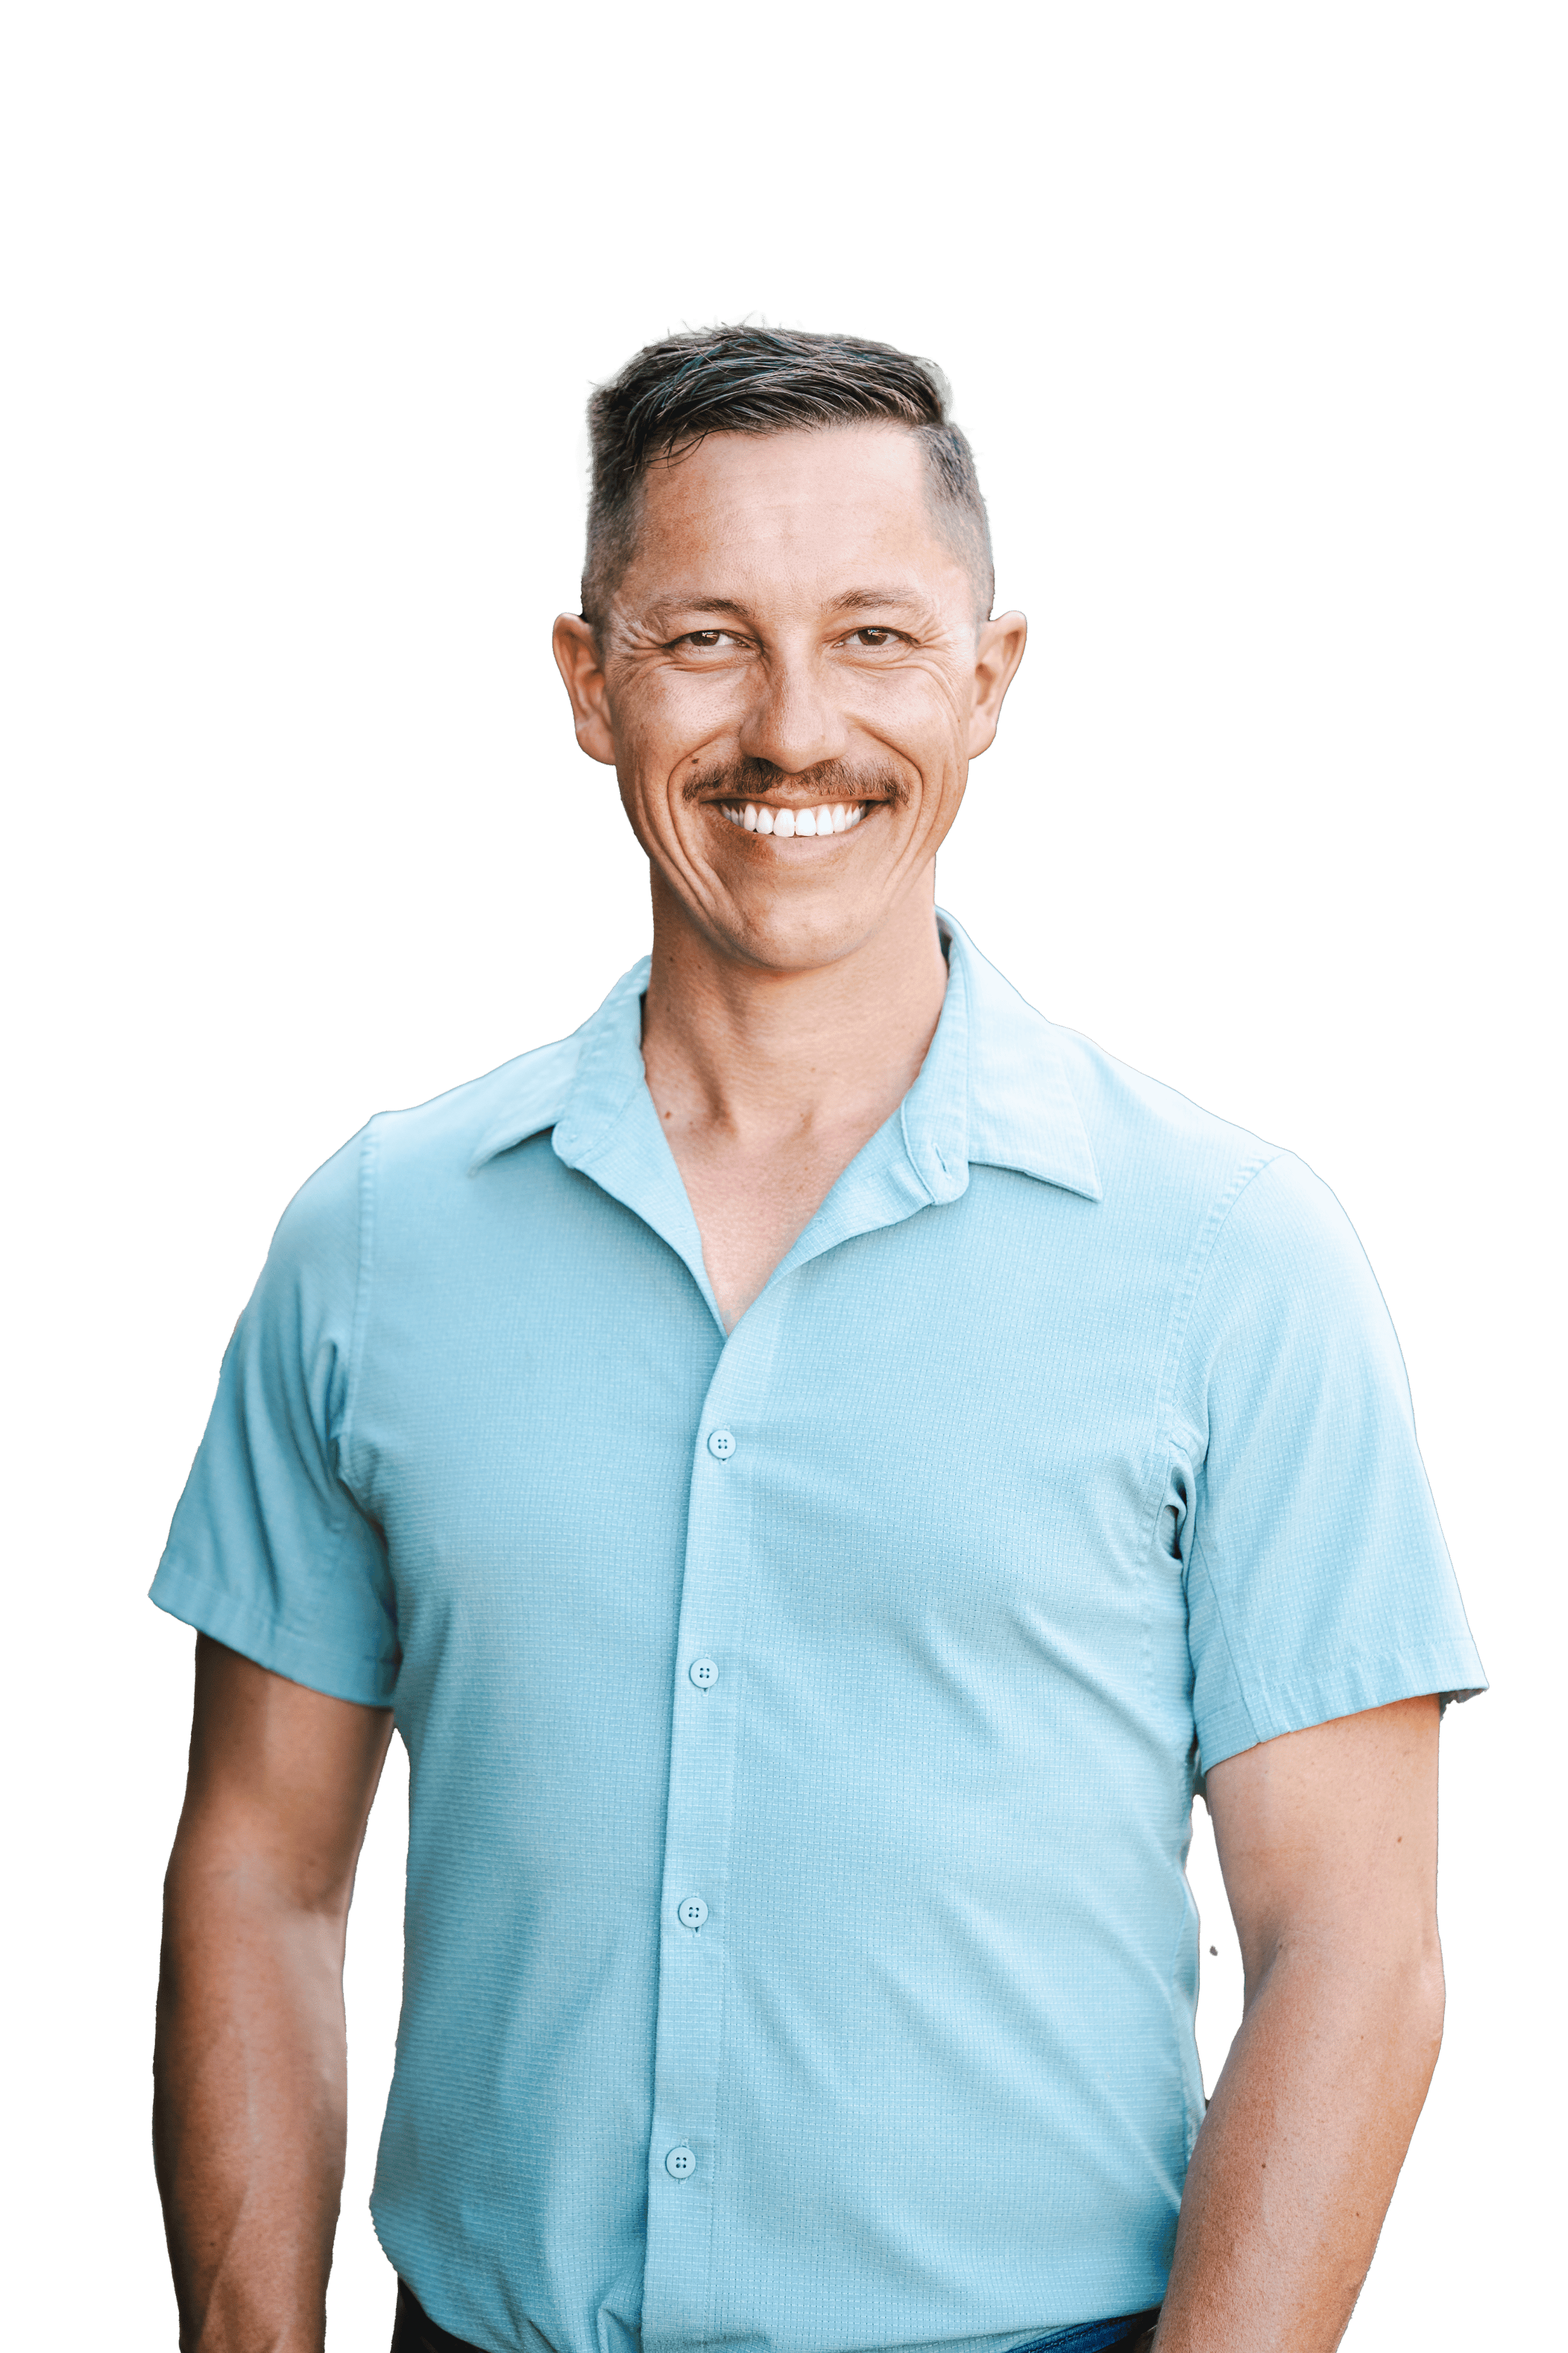
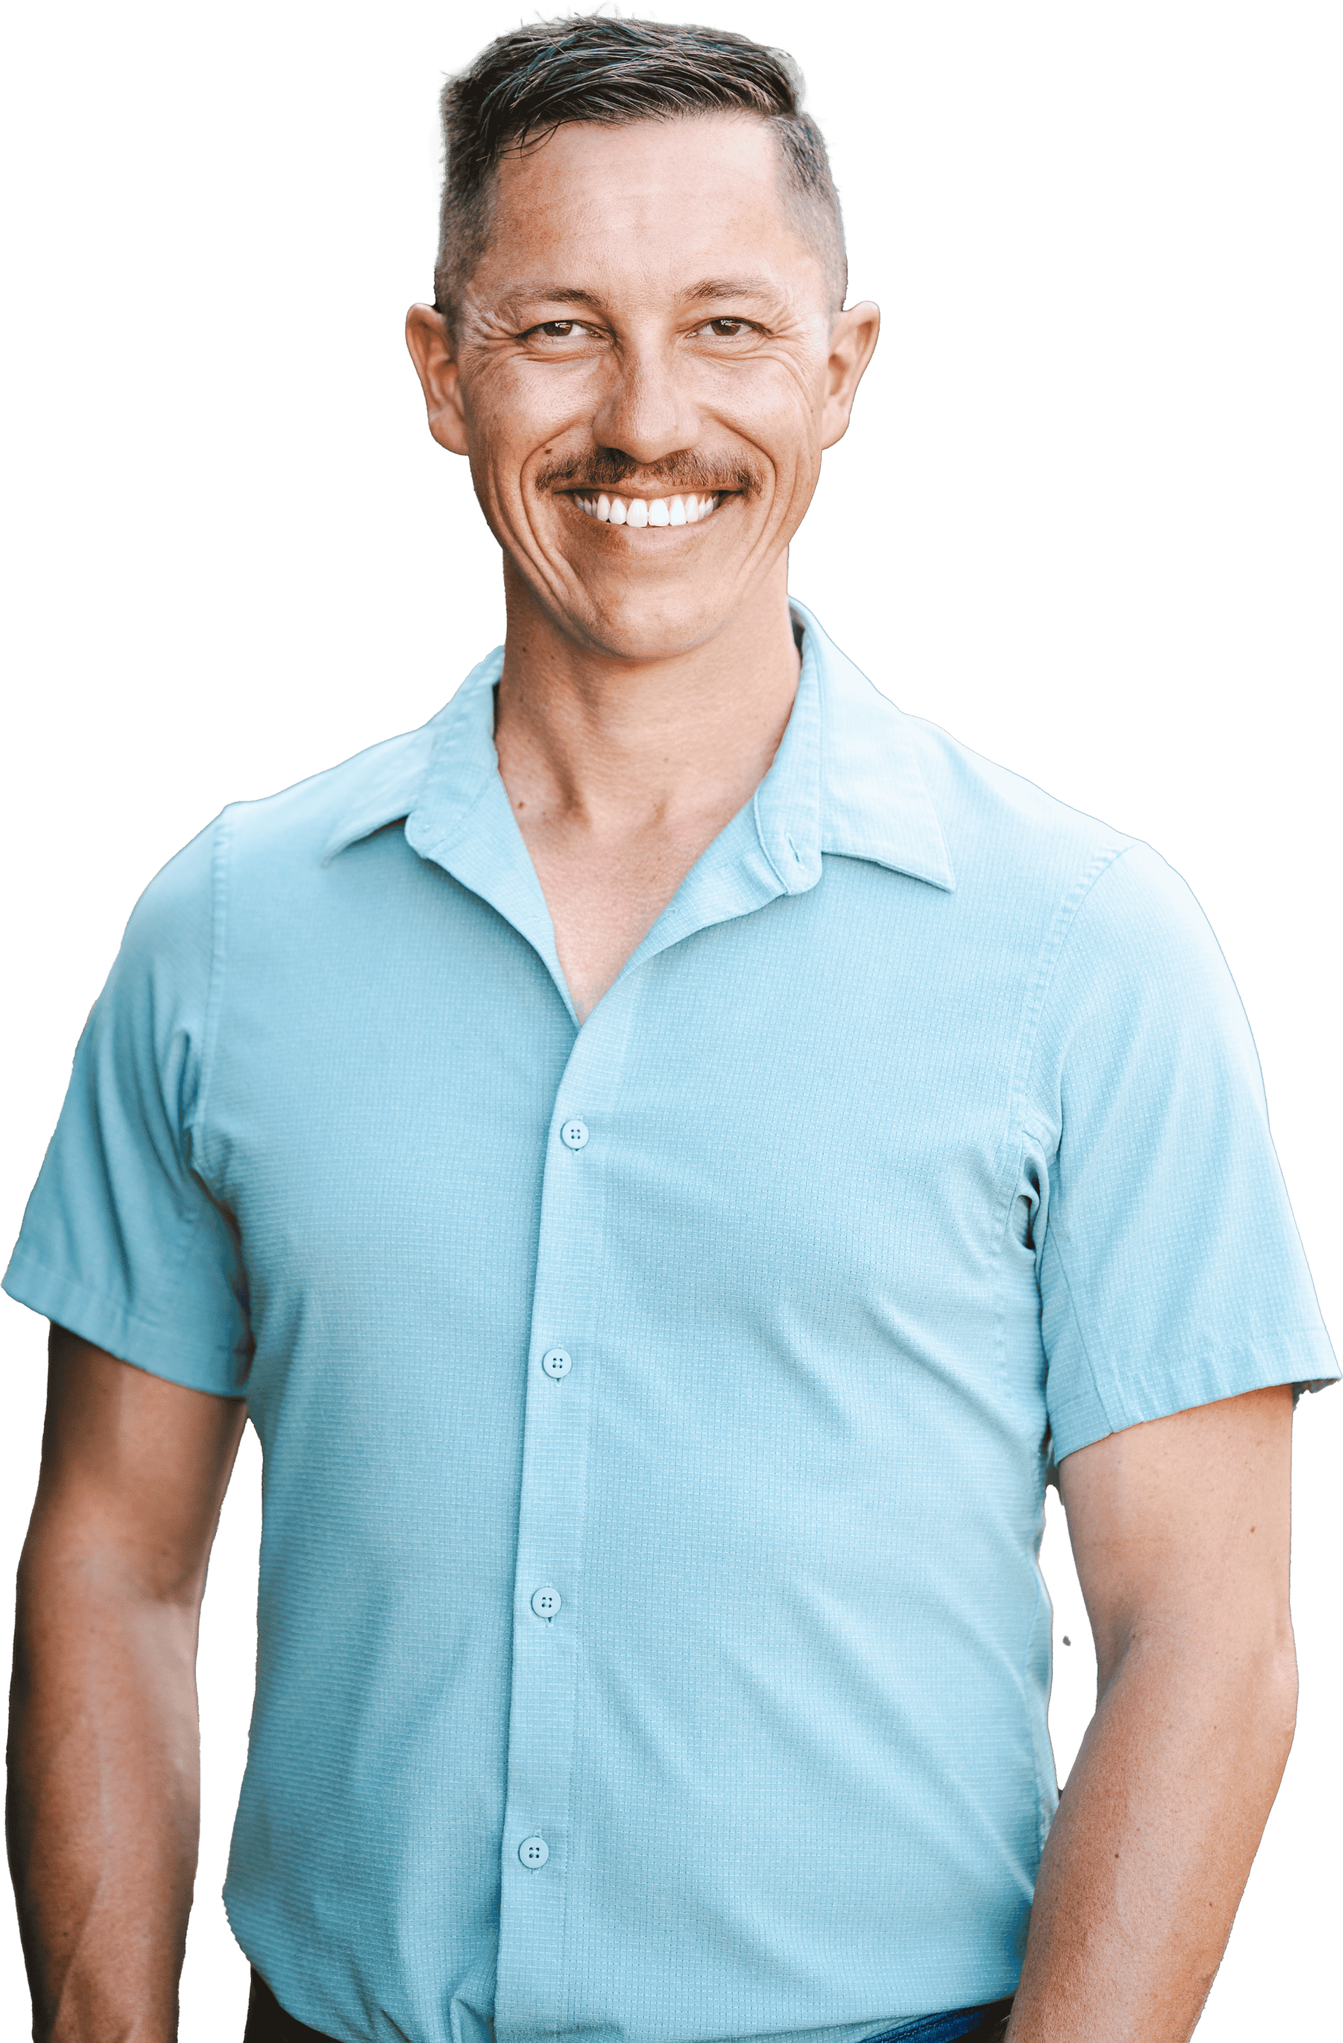
Trim transparent pixels from keith-portrait.png (2730x4096 → 2338x3557)

diff --git a/stylesheets/theme.scss b/stylesheets/theme.scss
@@ -1041,7 +1041,7 @@ $ky-hero-cream: #e8e3d4;
 
 .ky-hero__portrait-img {
   display: block;
-  max-height: 440px;
+  max-height: 690px;
   width: auto;
   object-fit: contain;
   object-position: bottom center;
